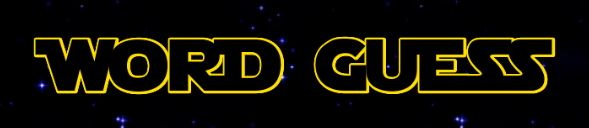
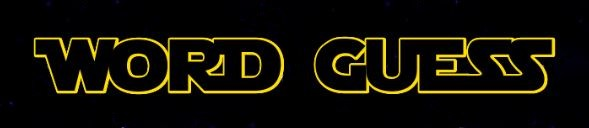
added styles up to click to start

diff --git a/index.html b/index.html
@@ -12,17 +12,32 @@
 
 <body>
     <section class="container">
-        <section class="row">
-            <div class="col-sm-12">
-                <img src="./assets/images/WordGuess2.JPG" alt="Word Guess Title">
+        <section class="row text-center mt-3">
+            <div class="col-sm-12" id="title">
+                <img src="./assets/images/WordGuess2.JPG" class="img-fluid" id="title-image" alt="Word Guess Title">
+            </div>
+        </section>
+        <section class="row mt-4" id="scoreboard">
+            <div class="col-sm-6 text-right">
+                <!-- <h2>Wins <span id="number-of-wins" class="badge badge-secondary badge-warning light-side">0</span></h2> -->
+                <h2>Wins <span id="number-of-wins" class="badge badge-secondary light-side">0</span></h2>
+            </div>
+            <div class="col-sm-6 text-left">
+                <h2>Losses <span id="number-of-losses" class="badge badge-secondary badge-warning dark-side">0</span></h2>
             </div>
         </section>
         <section class="row">
-            <div class="col-sm-12" id="start-instruct">
+            <div class="col-sm-12 mt-5 text-center" id="start-instruct">
                 <h1>Press Any Key To Get Started...</h1>
             </div>
-            <div class="col-sm-12 jumbotron" id="word-jumbotron">
-                <h1 class="display-4" id="word-field">Temp placeholder</h1>
+            <div class="col-sm-9 jumbotron" id="word-jumbotron">
+                <h1 class="display-4" id="word-field"></h1>
+            </div>
+            <div class="col-sm-3 jumbotron" id="guess-jumbotron">
+                <!-- <h1>Number of Guesses Remaining</h1> -->
+                <!-- <h2 id="number-of-guesses">6</h2> -->
+                <h1>Guesses Remaining... <span id="number-of-guesses" class="badge badge-secondary badge-warning">6</span>
+                </h1>
             </div>
         </section>
         <section class="row">
@@ -31,10 +46,10 @@
                 <h2 id="input-character"></h2>
             </div>
             <div class="col-sm-6" id="attempt-detail">
-                <div class="jumbotron">
+                <!-- <div class="jumbotron">
                     <h1>Number of Guesses Remaining</h1>
                     <h2 id="number-of-guesses">6</h2>
-                </div>
+                </div> -->
                 <div class="jumbotron">
                     <h1>INCORRECT GUESSES</h1>
                     <h2 id="incorrect-guess"></h2>
@@ -44,7 +59,7 @@
                 <!-- <iframe width="560" height="315" src="https://www.youtube.com/embed/ONBAMgTC4dw?controls=0"
                     frameborder="0" allow="accelerometer; autoplay; encrypted-media; gyroscope; picture-in-picture"
                     allowfullscreen></iframe> -->
-                <img src="./assets/images/allTooEasy.jpg" alt="Word Guess Title">
+                <img src="./assets/images/allTooEasy.jpg" class="img-fluid" alt="Word Guess Title">
                 <h1>ALL TOO EASY...</h1>
                 <h1>Press Any Key To Continue...</h1>
             </div>
@@ -52,13 +67,13 @@
                 <!-- <iframe width="560" height="315" src="https://www.youtube.com/embed/maOaDsZ1oAM?controls=0"
                     frameborder="0" allow="accelerometer; autoplay; encrypted-media; gyroscope; picture-in-picture"
                     allowfullscreen></iframe> -->
-                <img src="./assets/images/deathstar.jpg" alt="Word Guess Title">
+                <img src="./assets/images/deathstar.jpg" class="img-fluid" alt="Word Guess Title">
                 <h1>THE FORCE WILL BE WITH YOU...</h1>
                 <h1>ALWAYS...</h1>
                 <h1>Press Any Key To Continue...</h1>
             </div>
         </section>
-        <section class="row">
+        <!-- <section class="row">
             <div class="col-sm-6">
                 <h1>Wins</h1>
                 <h2 id="number-of-wins">0</h2>
@@ -67,7 +82,7 @@
                 <h1>Losses</h1>
                 <h2 id="number-of-losses"></h2>
             </div>
-        </section>
+        </section> -->
 
     </section>
 

diff --git a/assets/javascript/game.js b/assets/javascript/game.js
@@ -7,6 +7,7 @@
 //DOM Variables
 let startInstructions = document.getElementById('start-instruct');
 let wordJumbotron = document.getElementById('word-jumbotron');
+let guessJumbotron = document.getElementById('guess-jumbotron');
 let wordField = document.getElementById('word-field');
 let input = document.getElementById('input');
 let inputCharacter = document.getElementById('input-character');
@@ -59,6 +60,7 @@ function startGame() {
     // wordField.innerHTML = puzzleInput.join(" ");
     // displayElement(wordField, true);
     displayElement(wordJumbotron, true);
+    displayElement(guessJumbotron, true);
 }
 
 /**
@@ -100,6 +102,7 @@ function resetGame() {
     displayElement(attemptDetail, false);
     displayElement(playerFail, false);
     displayElement(playerWin, false);
+    displayElement(guessJumbotron, false);
     gameStarted = false;
     puzzle = [];
     puzzleInput = [];

diff --git a/assets/css/style.css b/assets/css/style.css
@@ -1,0 +1,34 @@
+/* Element Styles */
+body {
+    background-image: url(../images/stars2.jpg);
+}
+
+/* Class Styles */
+.light-side {
+    background-color: #10fefe;
+    color: black;
+}
+
+.dark-side {
+    background-color:#f80328;
+    color: black;
+}
+
+/* ID Styles */
+#title-image {
+    border-color:  #f4e51a;
+    border-style: solid;
+    border-width: 4px 4px;
+    border-radius: 25px;
+}
+
+#start-instruct h1 {
+    font-family: 'Franklin Gothic Medium', 'Arial Narrow', Arial, sans-serif;
+    color: #f4e51a;
+}
+
+#scoreboard h2 {
+    font-family: 'Franklin Gothic Medium', 'Arial Narrow', Arial, sans-serif;
+    color: #f4e51a;
+}
+
